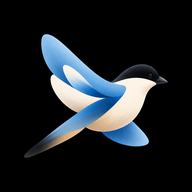
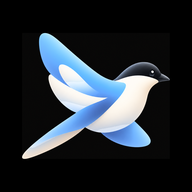
로고를 새 물까치 그림으로 바꾸고 파랑을 보정
날개 파랑이 형광에 가까워, 실제 물까치의 부드러운 하늘색 쪽으로 낮췄다.
채도 0.62배, 색상을 살짝 청록 쪽으로, 밝기 1.06배. 파란 영역(HSV 색상
0.52~0.68)에만 적용해 크림색 가슴과 검은 두건은 그대로 뒀다.

강도를 세 단계로 뽑아 견줘 보고 가운데 것을 골랐다. 더 낮추면 색이 바래
날개 결이 뭉개진다. 원본 해상도에서 보정한 뒤 줄여, 줄이고 보정할 때
생기는 계단 현상을 피했다.

  img/magpie-512.png · magpie-192.png · magpie-64.png 모두 갱신

빌드 스탬프 20260903i.

Claude-Session: https://claude.ai/code/session_0111yRyXzGisqdrG9SKT91iY

diff --git a/index.html b/index.html
@@ -13,10 +13,10 @@
 <link rel="stylesheet" crossorigin href="https://cdn.jsdelivr.net/gh/orioncactus/pretendard@v1.3.9/dist/web/static/pretendard.min.css">
 <link href="https://fonts.googleapis.com/css2?family=Space+Grotesk:wght@400;500;600;700&family=Barlow+Condensed:wght@400;500;600;700&display=swap" rel="stylesheet">
 </noscript>
-<link rel="icon" href="img/magpie-64.png?v=20260903h">
-<link rel="apple-touch-icon" href="img/magpie-192.png?v=20260903h">
+<link rel="icon" href="img/magpie-64.png?v=20260903i">
+<link rel="apple-touch-icon" href="img/magpie-192.png?v=20260903i">
 <script>(function(){try{var m=localStorage.getItem('seji_theme')||(matchMedia('(prefers-color-scheme: light)').matches?'light':'dark');document.documentElement.dataset.theme=m;}catch(e){}})();</script>
-<link rel="stylesheet" href="css/main.css?v=20260903h">
+<link rel="stylesheet" href="css/main.css?v=20260903i">
 </head>
 <body>
 <button id="theme-toggle" type="button" title="화면 밝기 전환" onclick="toggleTheme()"></button>
@@ -25,7 +25,7 @@
 <div id="landing-overlay">
   <div class="ld-stage">
     <div class="g3-lockup" aria-label="Geogl3">
-      <img class="g3-bird" src="img/magpie-512.png?v=20260903h" alt="" width="512" height="512" decoding="async"/>
+      <img class="g3-bird" src="img/magpie-512.png?v=20260903i" alt="" width="512" height="512" decoding="async"/>
       <div class="g3-logo">Geogl3</div>
     </div>
     <p class="ld-tag">지도로 배우는 지리 퀴즈</p>
@@ -4939,25 +4939,25 @@
     <button class="reb secondary" onclick="runPendingReset();document.getElementById('rbq-end').classList.remove('on')">다시 시작</button>
   </div>
 </div>
-<script src="js/data.js?v=20260903h"></script>
-<script src="js/rivers-data.js?v=20260903h"></script>
-<script src="js/climate-data.js?v=20260903h"></script>
-<script src="js/religion-pop-data.js?v=20260903h"></script>
-<script src="js/climate-map-data.js?v=20260903h"></script>
-<script src="js/app.js?v=20260903h"></script>
-<script src="js/climate.js?v=20260903h"></script>
-<script src="js/dict-data.js?v=20260903h"></script>
-<script src="js/flag-colors-data.js?v=20260903h"></script>
-<script src="js/flag-bg-data.js?v=20260903h"></script>
-<script src="js/dict.js?v=20260903h"></script>
-<script src="js/suteuk-data.js?v=20260903h"></script>
-<script src="js/suteuk.js?v=20260903h"></script>
-<script src="js/stat-data.js?v=20260903h"></script>
-<script src="js/stat.js?v=20260903h"></script>
+<script src="js/data.js?v=20260903i"></script>
+<script src="js/rivers-data.js?v=20260903i"></script>
+<script src="js/climate-data.js?v=20260903i"></script>
+<script src="js/religion-pop-data.js?v=20260903i"></script>
+<script src="js/climate-map-data.js?v=20260903i"></script>
+<script src="js/app.js?v=20260903i"></script>
+<script src="js/climate.js?v=20260903i"></script>
+<script src="js/dict-data.js?v=20260903i"></script>
+<script src="js/flag-colors-data.js?v=20260903i"></script>
+<script src="js/flag-bg-data.js?v=20260903i"></script>
+<script src="js/dict.js?v=20260903i"></script>
+<script src="js/suteuk-data.js?v=20260903i"></script>
+<script src="js/suteuk.js?v=20260903i"></script>
+<script src="js/stat-data.js?v=20260903i"></script>
+<script src="js/stat.js?v=20260903i"></script>
 <!-- ════════════════════════════════════════════════════════════
      계정 · 소셜로그인 · 랭킹 (Supabase) — 빌드/명령어 불필요, 이 파일만으로 동작
      ▼▼▼ 여기 두 줄만 본인 Supabase 값으로 바꾸면 끝 ▼▼▼ -->
-<script type="module" src="js/account.js?v=20260903h"></script>
+<script type="module" src="js/account.js?v=20260903i"></script>
 
 </body>
 </html>
